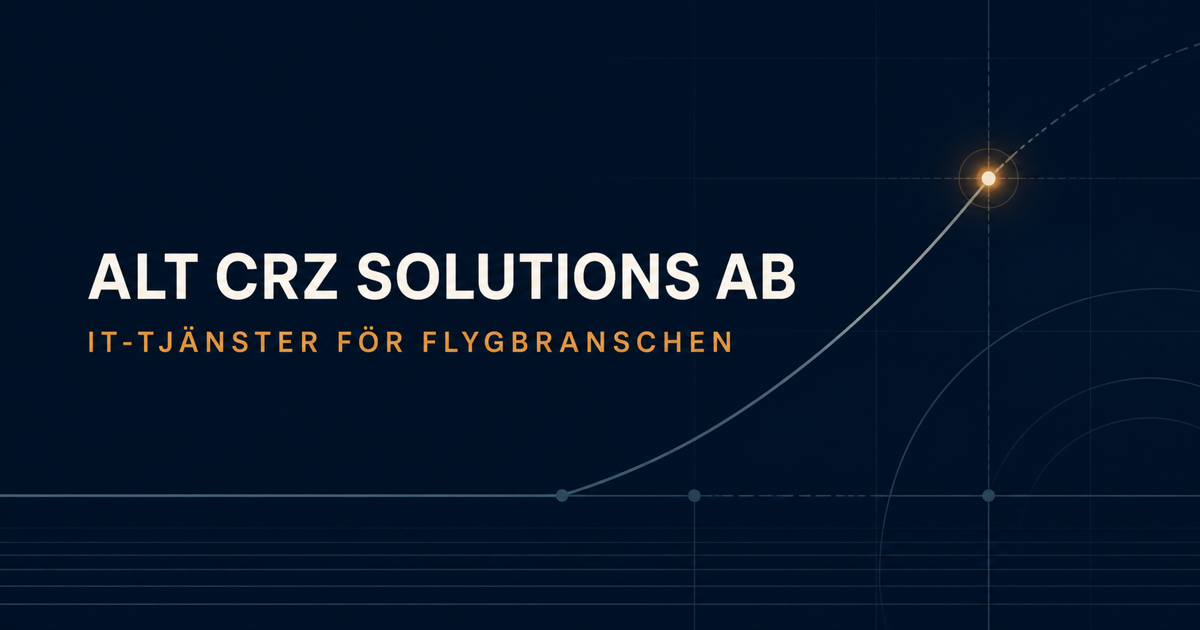
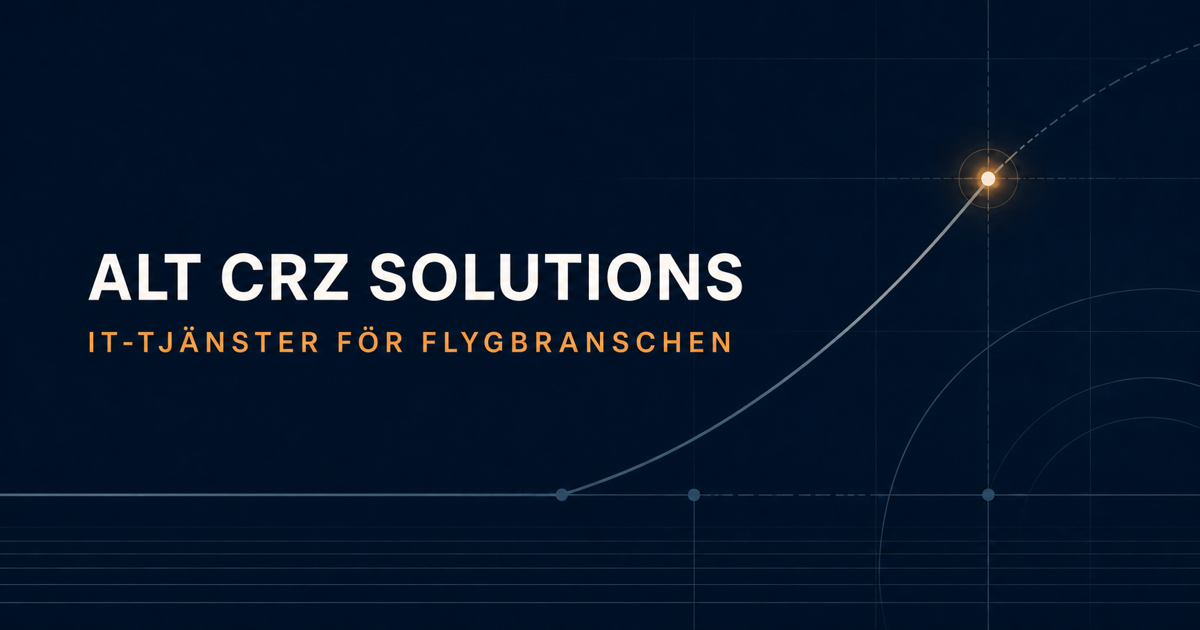
Use ALT CRZ Solutions as display name

diff --git a/app/page.tsx b/app/page.tsx
@@ -26,7 +26,7 @@ const companyDetails = [
 const organizationSchema = {
   "@context": "https://schema.org",
   "@type": "Organization",
-  name: "ALT CRZ Solutions AB",
+  name: "ALT CRZ Solutions",
   legalName: "ALT CRZ Solutions AB",
   url: "https://altcrz.se",
   email: "info@altcrz.se",
@@ -50,11 +50,11 @@ export default function Home() {
       </a>
 
       <header className="site-header">
-        <a className="brand" href="#top" aria-label="ALT CRZ Solutions AB, startsida">
+        <a className="brand" href="#top" aria-label="ALT CRZ Solutions, startsida">
           <span className="brand-code" aria-hidden="true">
             ALT<span>/</span>CRZ
           </span>
-          <span className="brand-legal">Solutions AB</span>
+          <span className="brand-legal">Solutions</span>
         </a>
 
         <nav className="site-nav" aria-label="Huvudnavigation">
@@ -78,7 +78,7 @@ export default function Home() {
               IT-tjänster för en bransch i <em>ständig rörelse.</em>
             </h1>
             <p className="hero-intro">
-              ALT CRZ Solutions AB utvecklar och driver IT-tjänster med primärt
+              ALT CRZ Solutions utvecklar och driver IT-tjänster med primärt
               fokus på flygbranschen.
             </p>
             <div className="hero-actions">
@@ -182,7 +182,7 @@ export default function Home() {
         <section className="about section-shell" id="om-oss" aria-labelledby="about-title">
           <div className="about-intro">
             <p className="section-kicker">Om företaget</p>
-            <h2 id="about-title">ALT CRZ Solutions AB</h2>
+            <h2 id="about-title">ALT CRZ Solutions</h2>
             <p>
               Ett svenskt aktiebolag med registrerad verksamhet inom utveckling
               och drift av IT-tjänster, primärt riktat mot flygbranschen.
@@ -206,12 +206,12 @@ export default function Home() {
               <h2 id="contact-title">Låt oss börja med en riktning.</h2>
               <p>
                 För affärsförfrågningar och frågor om bolaget är du välkommen
-                att kontakta ALT CRZ Solutions AB.
+                att kontakta ALT CRZ Solutions.
               </p>
             </div>
 
             <address className="contact-address">
-              <span className="contact-company">ALT CRZ Solutions AB</span>
+              <span className="contact-company">ALT CRZ Solutions</span>
               Norra Kustvägen 411
               <br />
               263 92 Jonstorp
@@ -232,10 +232,10 @@ export default function Home() {
             <span className="brand-code" aria-hidden="true">
               ALT<span>/</span>CRZ
             </span>
-            <span className="brand-legal">Solutions AB</span>
+            <span className="brand-legal">Solutions</span>
           </a>
           <div className="footer-meta">
-            <span>© 2026 ALT CRZ Solutions AB</span>
+            <span>© 2026 ALT CRZ Solutions</span>
             <span>Org.nr 559478-9819</span>
             <span>Sverige</span>
           </div>

diff --git a/app/layout.tsx b/app/layout.tsx
@@ -1,15 +1,15 @@
 import type { Metadata, Viewport } from "next";
 import "./globals.css";
 
-const title = "ALT CRZ Solutions AB | IT-tjänster för flygbranschen";
+const title = "ALT CRZ Solutions | IT-tjänster för flygbranschen";
 const description =
-  "ALT CRZ Solutions AB utvecklar och driver IT-tjänster med primärt fokus på flygbranschen – digitala lösningar för en bransch i ständig rörelse.";
+  "ALT CRZ Solutions utvecklar och driver IT-tjänster med primärt fokus på flygbranschen – digitala lösningar för en bransch i ständig rörelse.";
 
 export const metadata: Metadata = {
   metadataBase: new URL("https://altcrz.se"),
   title,
   description,
-  applicationName: "ALT CRZ Solutions AB",
+  applicationName: "ALT CRZ Solutions",
   icons: {
     icon: "/icon.png",
     apple: "/apple-touch-icon.png",
@@ -21,7 +21,7 @@ export const metadata: Metadata = {
     type: "website",
     locale: "sv_SE",
     url: "/",
-    siteName: "ALT CRZ Solutions AB",
+    siteName: "ALT CRZ Solutions",
     title,
     description,
     images: [
@@ -29,7 +29,7 @@ export const metadata: Metadata = {
         url: "/og.png",
         width: 1200,
         height: 630,
-        alt: "ALT CRZ Solutions AB – IT-tjänster för flygbranschen",
+        alt: "ALT CRZ Solutions – IT-tjänster för flygbranschen",
       },
     ],
   },

diff --git a/README.md b/README.md
@@ -1,6 +1,6 @@
-# ALT CRZ Solutions AB
+# ALT CRZ Solutions
 
-En enkel, modern och responsiv företagswebbplats för ALT CRZ Solutions AB.
+En enkel, modern och responsiv företagswebbplats för ALT CRZ Solutions.
 Sidan är statiskt byggd och förberedd för GitHub Pages på den egna domänen
 `altcrz.se`.
 
